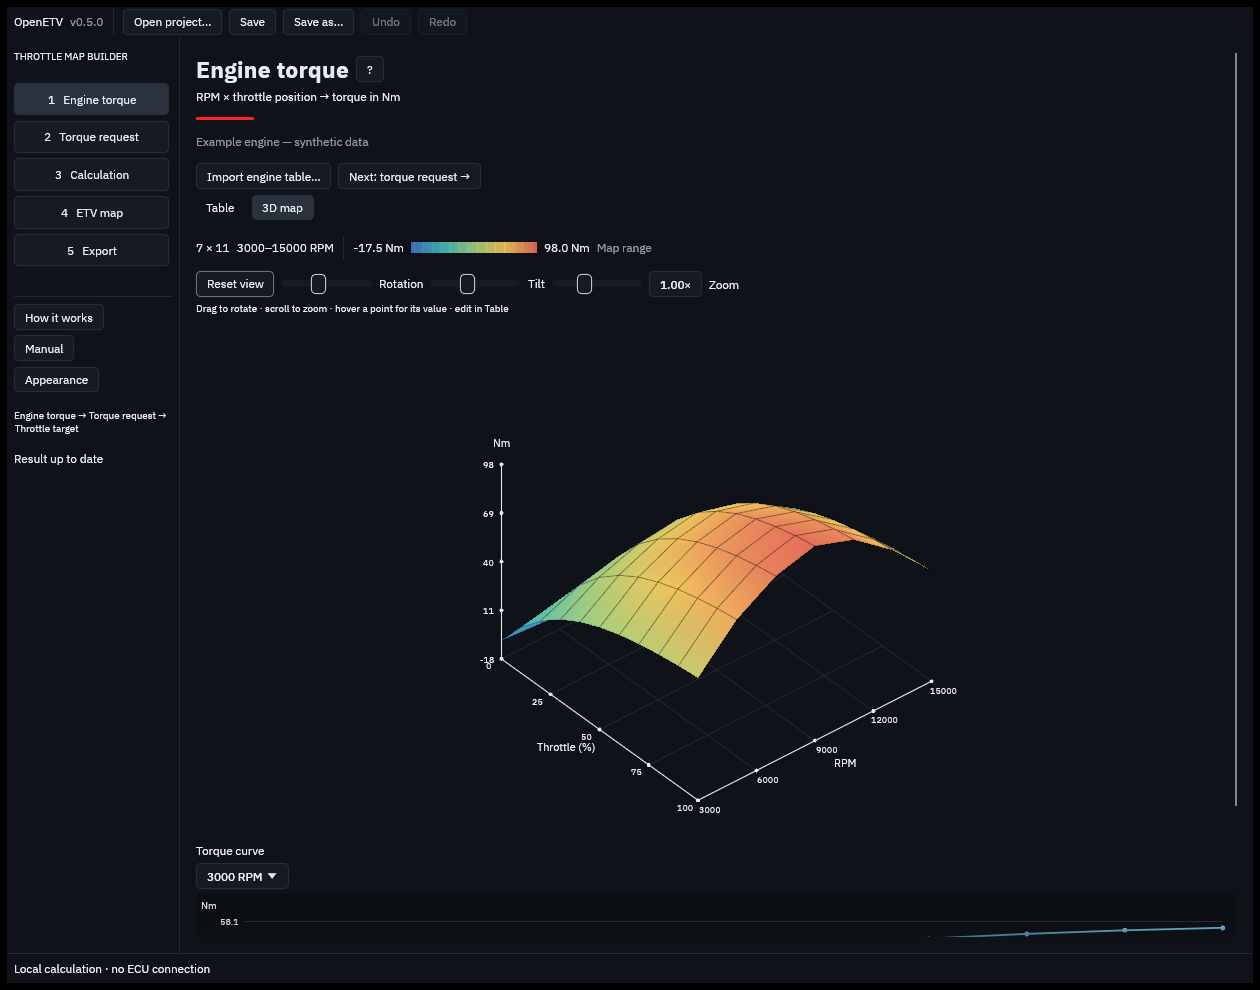
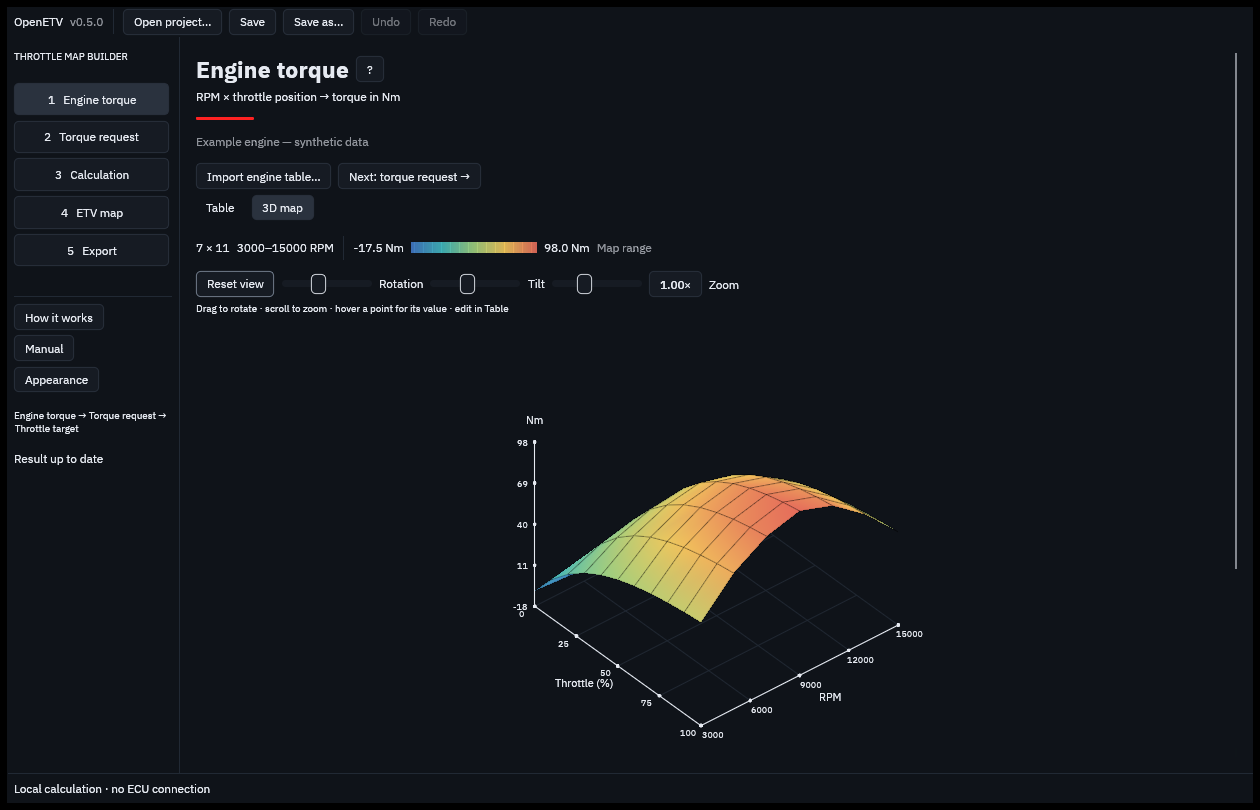
Fit the 3D map canvas into the visible page height

diff --git a/rust/tests/app.rs b/rust/tests/app.rs
@@ -317,7 +317,7 @@ fn three_dimensional_maps_are_read_only_and_render_all_roles() {
     let collector = picture::Collector::default();
     let mut h = Harness::builder()
         .with_max_steps(20)
-        .with_size(egui::vec2(1400., 1100.))
+        .with_size(egui::vec2(1400., 900.))
         .renderer(collector.clone())
         .build_ui_state(|ui, app: &mut App| app.show(ui), app);
     for step in [0, 1, 3] {
@@ -327,6 +327,7 @@ fn three_dimensional_maps_are_read_only_and_render_all_roles() {
         h.run();
         assert!(h.query_by_label("Table tools").is_none());
         let surface = h.get_by_label("3D map surface").rect();
+        assert!(surface.bottom() < h.ctx.content_rect().bottom() - 20.);
         let from = surface.center();
         let yaw = h
             .get_by_label("Rotation")

diff --git a/rust/src/surface.rs b/rust/src/surface.rs
@@ -88,7 +88,7 @@ pub fn show(ui: &mut egui::Ui, id: &str, table: &Table, low: f64, high: f64, uni
         );
     });
     ui.small("Drag to rotate · scroll to zoom · hover a point for its value · edit in Table");
-    let height = (ui.ctx().content_rect().height() - 330.).clamp(300., 560.);
+    let height = (ui.clip_rect().bottom() - ui.cursor().top() - 12.).clamp(260., 560.);
     let (rect, response) =
         ui.allocate_exact_size(Vec2::new(ui.available_width(), height), Sense::drag());
     response
